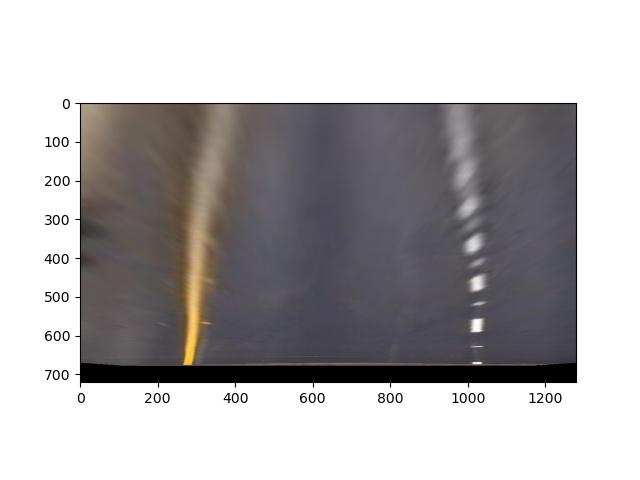
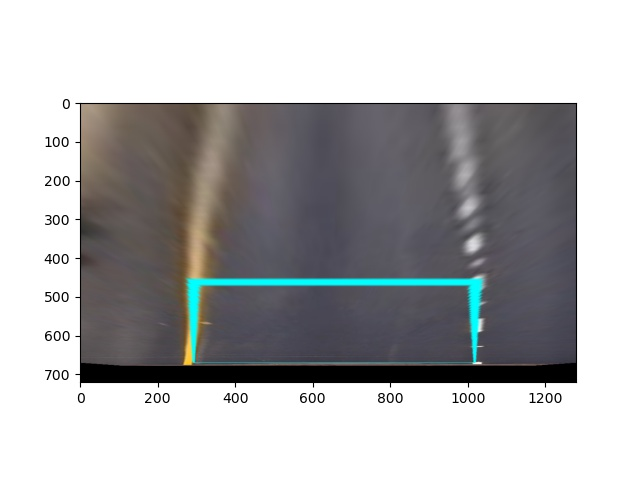
Document eagle eye

Changed region(s): [[0.2812, 0.5625, 0.7812, 0.7812]]

diff --git a/report.md b/report.md
@@ -53,7 +53,20 @@ Then both contribution are combined. We can see the individual contribution in t
 
 We can see that together most of the lines are detected. To see all the images go to [output_images/threshold/](./output_images/threshold/). To find more details of the process consult [pipeline/threshold.ipynb](./pipeline/threshold.ipynb).
 
-### Apply a perspective transform to rectify binary image ("birds-eye view").
+### Eagle eye view
+
+For this transformation the straight lines images provided in the calibration images were used. The idea was to find 4 points which would land on the lane for both images. This points were set as the source and the destination was a rectangle using the widest x separation as base. The mtx_perspective and mtx_inv_perspective were obtained and tested to see if the transformation produced straight lines. We can see that is is fulfilled:
+
+Original:
+
+![Lanes Image](./output_images/eagle_eye/straight_lines1_original.jpg)
+
+Eagle eye:
+
+![Lanes Image](./output_images/eagle_eye/straight_lines1.jpg)
+
+To find more details of the process consult [pipeline/eagle_eye.ipynb](./pipeline/eagle_eye.ipynb).
+
 ### Detect lane pixels and fit to find the lane boundary.
 ### Determine the curvature of the lane and vehicle position with respect to center.
 ### Warp the detected lane boundaries back onto the original image.
